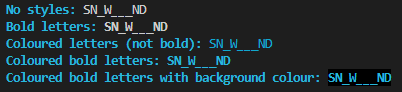
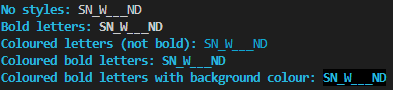
Replace gitpod image for resolved bug and update the same section in README.md

diff --git a/README.md b/README.md
@@ -18,10 +18,10 @@ When font styles were added to `word_to_guess` variable, underscores for letters
 Image showing how `word_to_guess` variable was printed in gitpod. Underscores were printed in all font styles:  
 <img src="docs/print-statements-gitpod.png">
 
-Image showing how `word_to_guess` variable was printed in the terminal of the deployed site using the same codes (but a different word as the word was randomly chosen). Underscores were only printed if the font style was not bold, or if it is bold, a background colour needed to be added for underscores to print in the deployed site:  
+Image showing how `word_to_guess` variable was printed in the terminal of the deployed site using the same codes (but a different word as the word was randomly chosen). Underscores did not print if the font style was bold, or if it is bold, a background colour needed to be added for the underscores to print in the deployed site:  
 <img src="docs/print-statements-deployed-site.png">
 
-Since coloured letters are difficult to read without bold font style in the terminal of the deployed site, font styles have been removed from the variable so that the underscore are printed clearly in white for the letters which are yet to be guessed.
+Since coloured letters are difficult to read without bold font style in the terminal of the deployed site, font styles have been removed from the variable so that the underscores are printed clearly in white for the letters which are yet to be guessed.
 
 ### Unresolved Bug
 PLACEHOLDER FOR CLEAR TERMINAL FUNCTION
